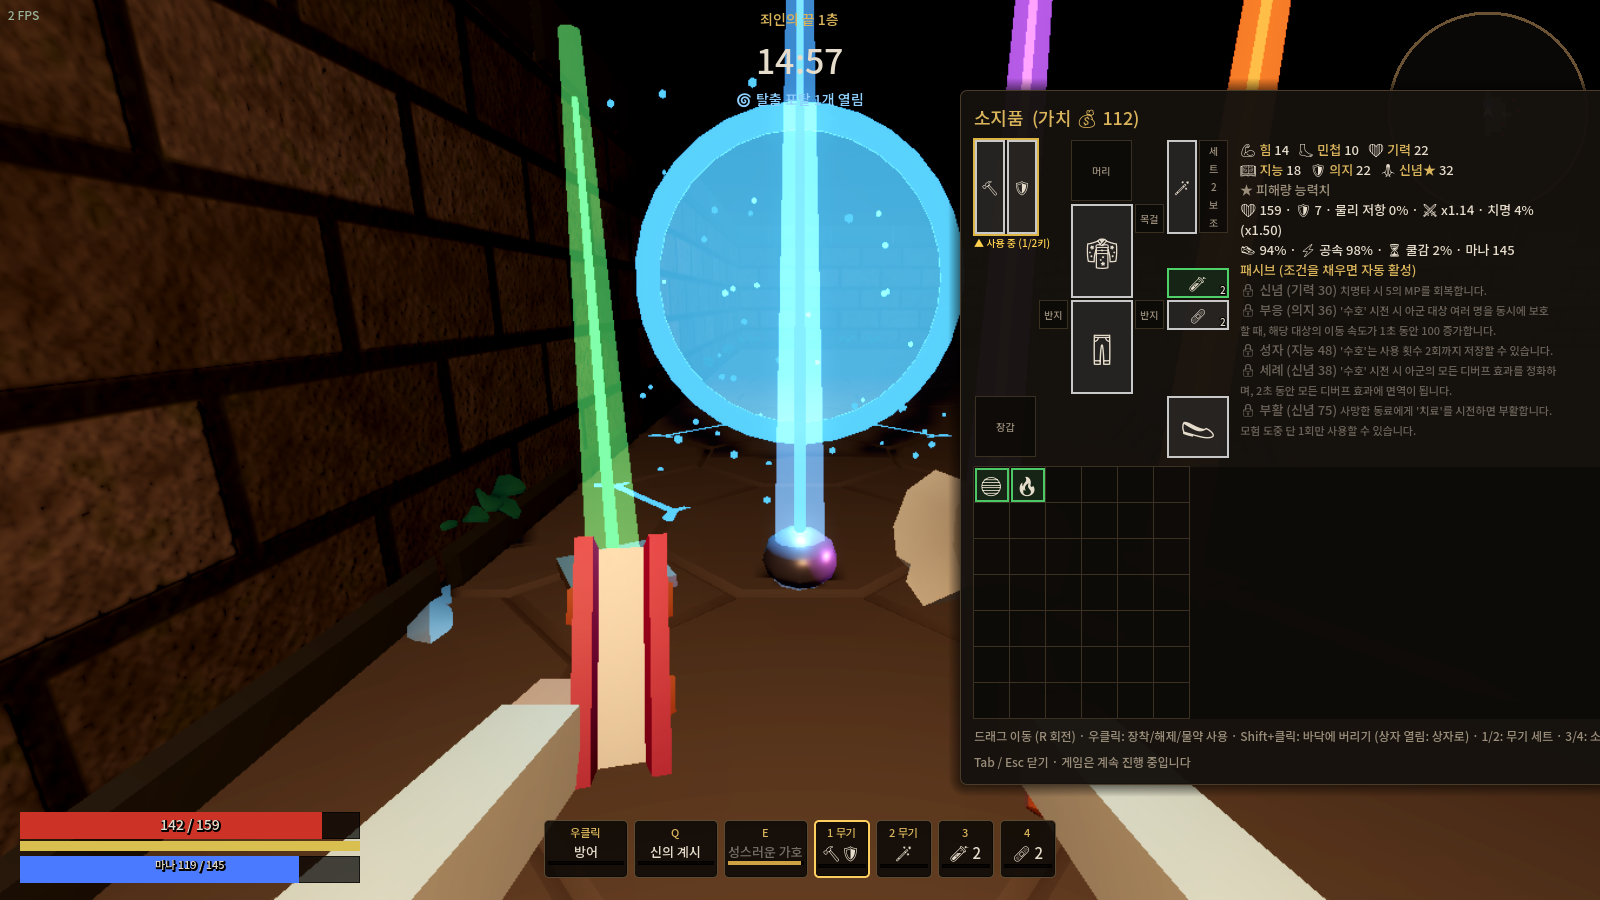
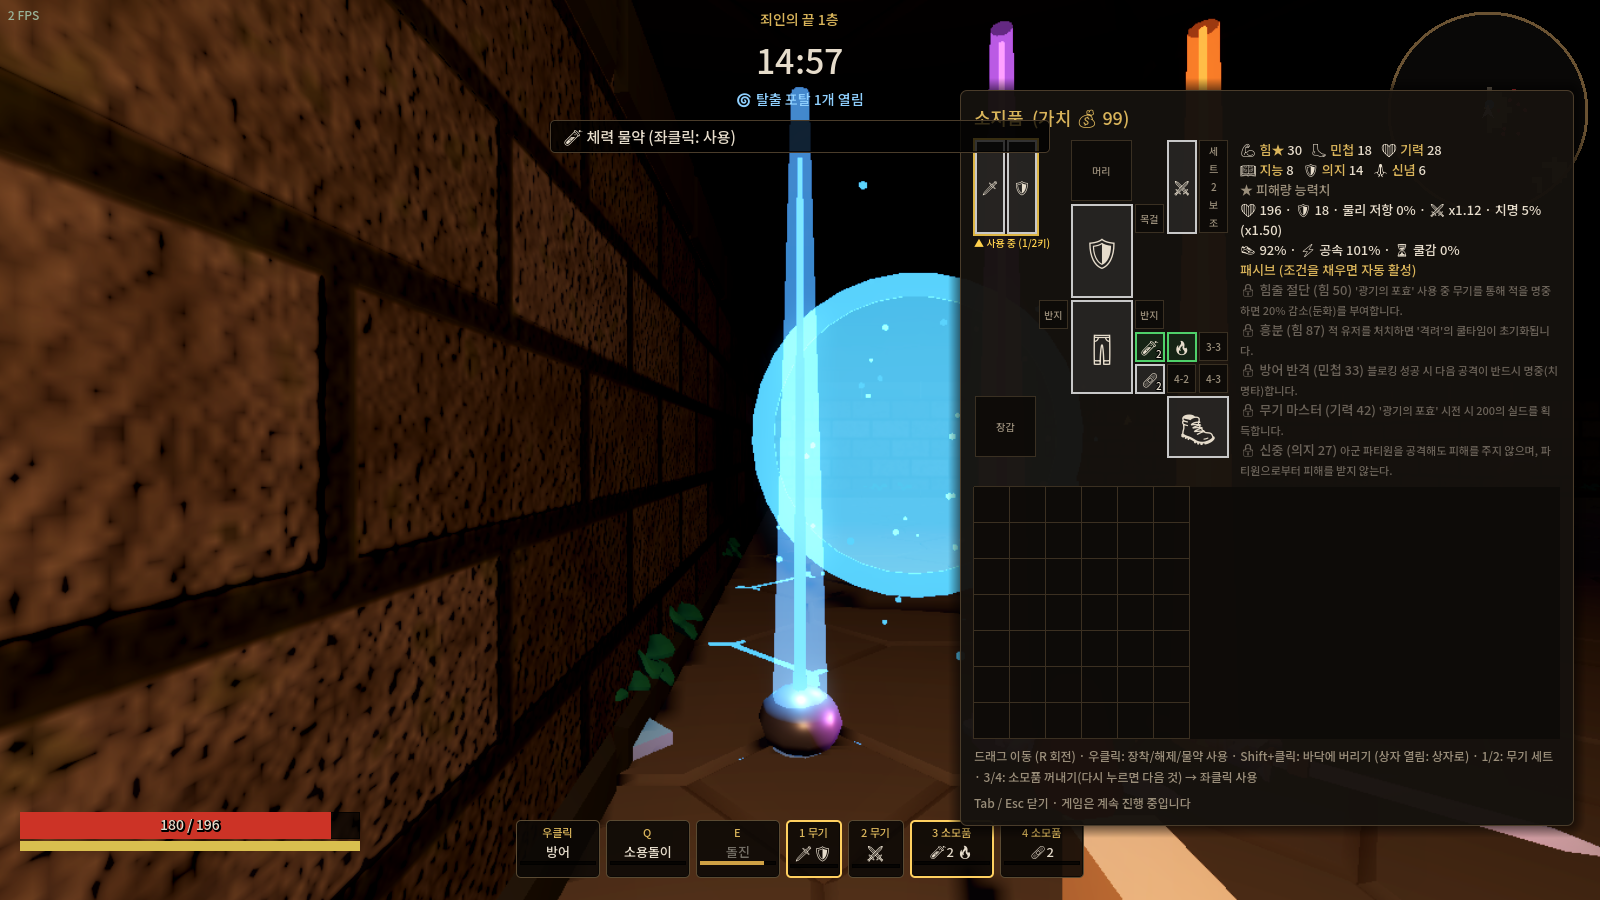
소모품 벨트 3·4 (각 3칸 로테이션) + 좌클릭 사용
- 소모품 칸을 3번/4번 벨트 각 3칸(총 6개)으로: 3/4키로 첫 번째 소모품을 손에 들고, 다시 누르면 로테이션
- 들고 있을 때 좌클릭 = 사용(마시기/던지기), 우클릭·1/2키 = 무기로, 다 쓰면 다음 소모품이 앞으로
- 1인칭에 손에 든 소모품 표시, HUD에 벨트 순서 표시, 서버→클라이언트 동기화
- 예전 저장의 q1/q2/q3/투척 칸은 벨트로 옮김, 테스트·문서 갱신

Claude-Session: https://claude.ai/code/session_01MLHGTdV1vHfDgiTBh1EFcA

diff --git a/README.md b/README.md
@@ -64,7 +64,7 @@
 
   ![새 캐릭터 미리보기](docs/lobby-create.png)
 - 캐릭터마다 **직업 · 장비 · 가방 · Q/E 스킬 · 무기 세트**가 따로 있고, **골드 · 보관함 · 기록은 공용**입니다.
-- 새 캐릭터는 직업 기본 무기, 낡은 방어구(상의·하의·신발), 소모품 칸 3에 체력 물약 2, 칸 4에 붕대 2, 가방에 화염 플라스크 1개(마나 직업은 마나 물약도)로 시작합니다.
+- 새 캐릭터는 직업 기본 무기, 낡은 방어구(상의·하의·신발), 3번 벨트에 체력 물약 2·화염 플라스크 1, 4번 벨트에 붕대 2(마나 직업은 가방에 마나 물약)로 시작합니다.
   파이터는 세트 2에 양손검(소용돌이용), 프리스트는 세트 2에 지팡이(신의 계시·치료용)를 가지고 시작합니다 (2키로 꺼냄).
 - **Q/E 스킬 선택**: 장비창 아래 **스킬 선택**에서 직업의 Q/E 후보 중 하나씩 고르고 입장합니다 (마우스를 올리면 설명).
 
@@ -87,15 +87,16 @@
 ![던전 인벤토리](docs/inventory-raid.png)
 
 - **장비창 배치 (던전본 인벤토리)**: 왼쪽 위 **세트 1(주무기/보조)**, 가운데 위 **머리**, 오른쪽 위 **세트 2(주무기/보조)** ·
-  가운데 **상의**와 오른쪽 **목걸이** · 오른쪽 **소모품 칸 3·4** ·
+  가운데 **상의**와 오른쪽 **목걸이** · 오른쪽 아래 **소모품 벨트 3번(3칸)·4번(3칸)** ·
   **반지 – 하의 – 반지** · **장갑은 왼쪽 아래, 신발은 오른쪽 아래** · 소드마스터는 아래에 **검 슬롯 4칸**.
   사용 중인 무기 세트에 금색 테두리가 표시되고, 던전에서 **1키 = 세트 1, 2키 = 세트 2**를 바로 고릅니다.
 - **아이템 데이터**: 던전본 위키 자료(방어구 판금/가죽/천 × 부위 × 등급, 한손검·양손검·방패·중석궁·지팡이·오브·단검·철퇴, 전설 고유 효과, 세트 효과)를 옮겼습니다.
   고정 옵션은 범위 안에서 굴리고, 등급에 따라 무작위 옵션(Δ/Φ/Ω 단계)과 세트 포인트가 붙습니다.
 - **가방 크기 (가로 6칸)**: 인간 종족(파이터·로그·프리스트·파이로맨서·소드마스터·드루이드) 7줄 = 42칸, 언데드 종족(데스나이트·크라이오맨서) 6줄 = 36칸. 보관함 12x10.
 - **격자 인벤토리**: 상의·하의 2x3, 투구·장갑·신발 2x2, 장검 1x3, 양손검·지팡이 1x4 … 드래그 중 **R**로 회전.
-- **소모품 칸 3·4**: 두 칸 모두 어떤 소모품이든 넣을 수 있고 **3키/4키**로 바로 씁니다.
-  치료 물약·붕대·마나 물약은 마시고, 플라스크는 조준한 곳에 던집니다.
+- **소모품 벨트 3·4 (각 3칸, 총 6개 미리 세팅)**: 어떤 소모품이든 넣을 수 있습니다 (던전본 방식).
+  **3키**를 누르면 3번 벨트의 첫 번째 소모품을 손에 들고, **한 번 더 누르면 로테이션**되어 두 번째 것이 첫 번째로 옵니다.
+  들고 있는 상태에서 **좌클릭 = 사용** (물약·붕대는 마시고, 플라스크는 조준한 곳에 던짐). 우클릭이나 1/2키로 무기로 돌아갑니다. 다 쓰면 다음 소모품이 앞으로 옵니다.
   화염 플라스크(범위 화염 + 화상), 바위 플라스크(범위 피해 + 1.5초 기절), 번개 플라스크(넓은 범위 번개 + 둔화), 미믹 플라스크(15초 동안 내 편 미믹 소환).
 - **겹치기**: 물약·붕대·플라스크·금화는 같은 칸에 쌓입니다.
 - **조작**: 드래그로 이동/장착 · **우클릭** 장착·해제(물약은 사용) · **Ctrl+클릭** 판매(로비) ·
@@ -127,7 +128,8 @@
 | Q / E | 고른 스킬 (화염 폭발·치료는 누르고 있다가 떼기) |
 | F | 상자 열기·성소·부활석(길게), 줍기, 전리품 살펴보기 / 스킬 중 F = 자신에게 |
 | 1 / 2 | 무기 세트 1 / 세트 2 바로 선택 (주무기·보조무기) |
-| 3 / 4 | 소모품 칸 3 / 4 사용 (물약·붕대 마시기, 플라스크 던지기) |
+| 3 / 4 | 소모품 벨트 꺼내기, 다시 누르면 다음 소모품으로 로테이션 |
+| 좌클릭 (소모품을 든 상태) | 사용: 물약·붕대 마시기, 플라스크 던지기 |
 | Tab | 인벤토리 (장착·사용·Shift+클릭 버리기) |
 | M | 전체 지도 |
 | Esc | 메뉴: 감도·그래픽 품질 설정, 레이드 포기 (게임은 계속 진행) |
